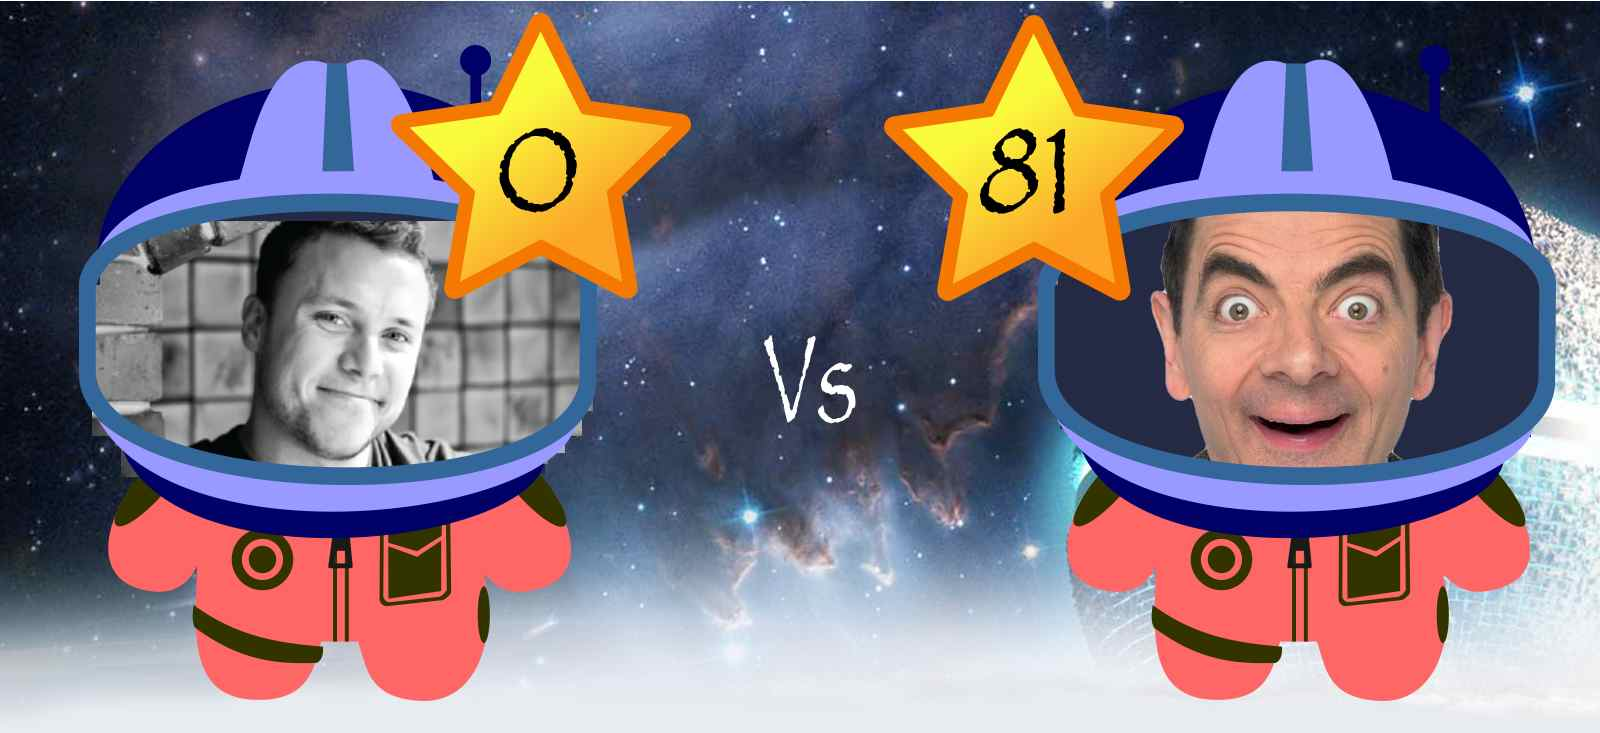
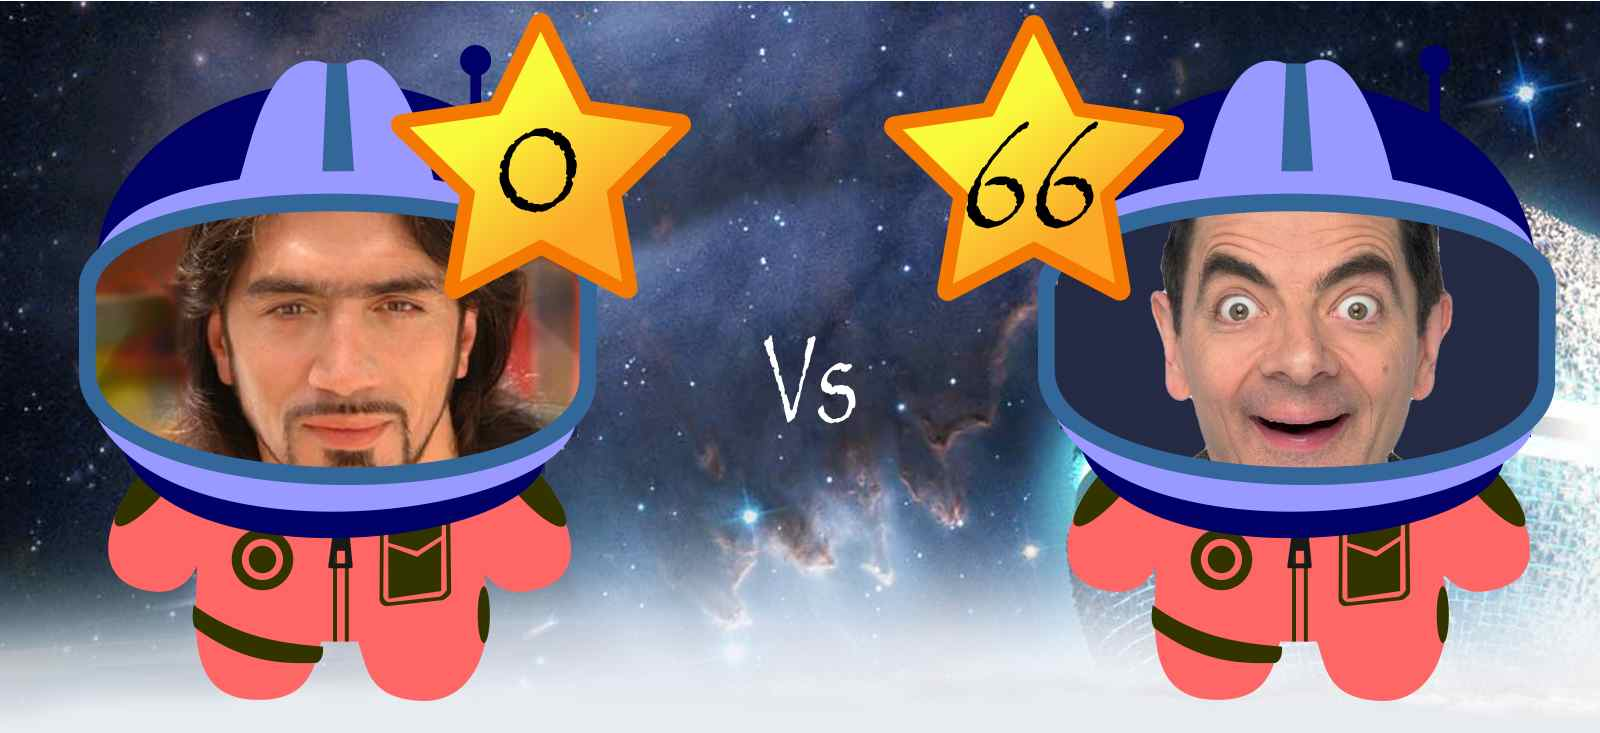
Monsieur @Bean

Changed region(s): [[0.0312, 0.2701, 0.375, 0.6603], [0.5938, 0.1501, 0.6875, 0.3302], [0.0625, 0.6303, 0.0938, 0.6603]]

diff --git a/web/index.html b/web/index.html
@@ -7,10 +7,10 @@ script: index.js
 
 <body>
 <div id="front">
-  <h2>Will you let your favorite Devoxx speaker lose to Mr Bean?</h2>
+  <h2>Who's going to win?<br/>Monsieur @Bean or Mr Bean?</h2>
   <img/>
 
-  <h3>Let us show you how to avoid that...</h3>
+  <h3>Let's cast your vote...</h3>
   <a href="#"></a>
 </div>
 <div id="back">
